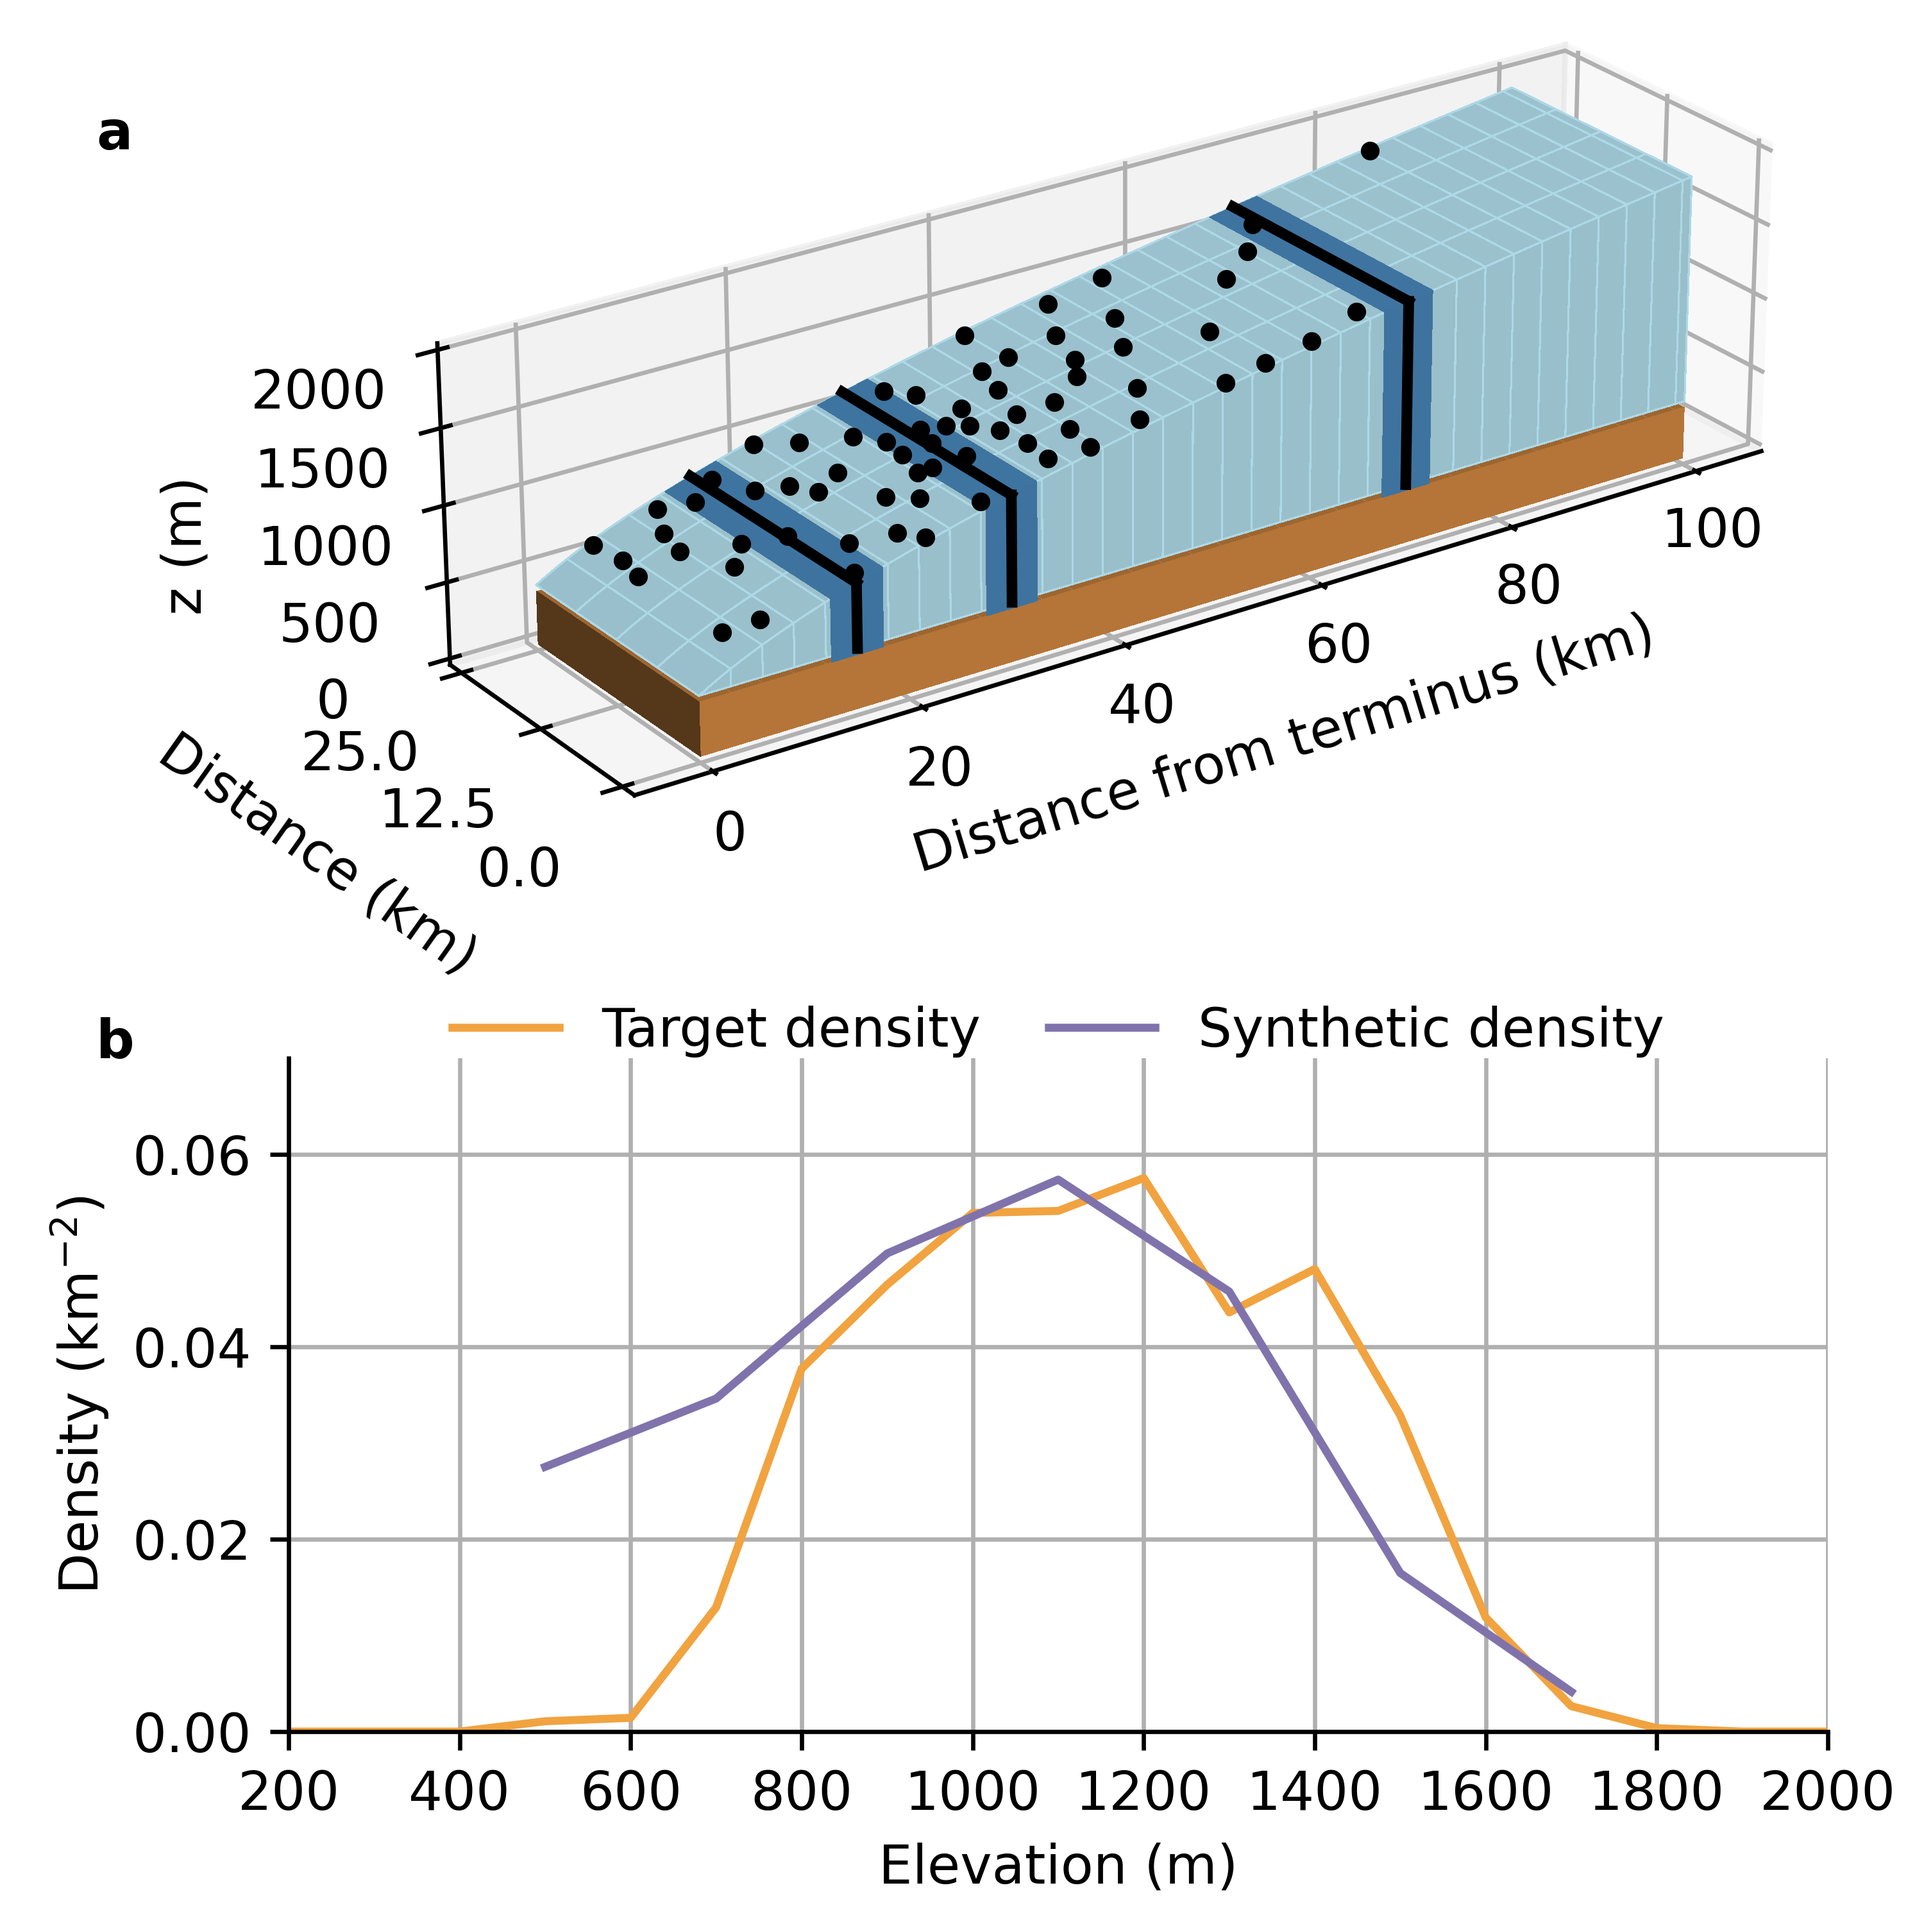
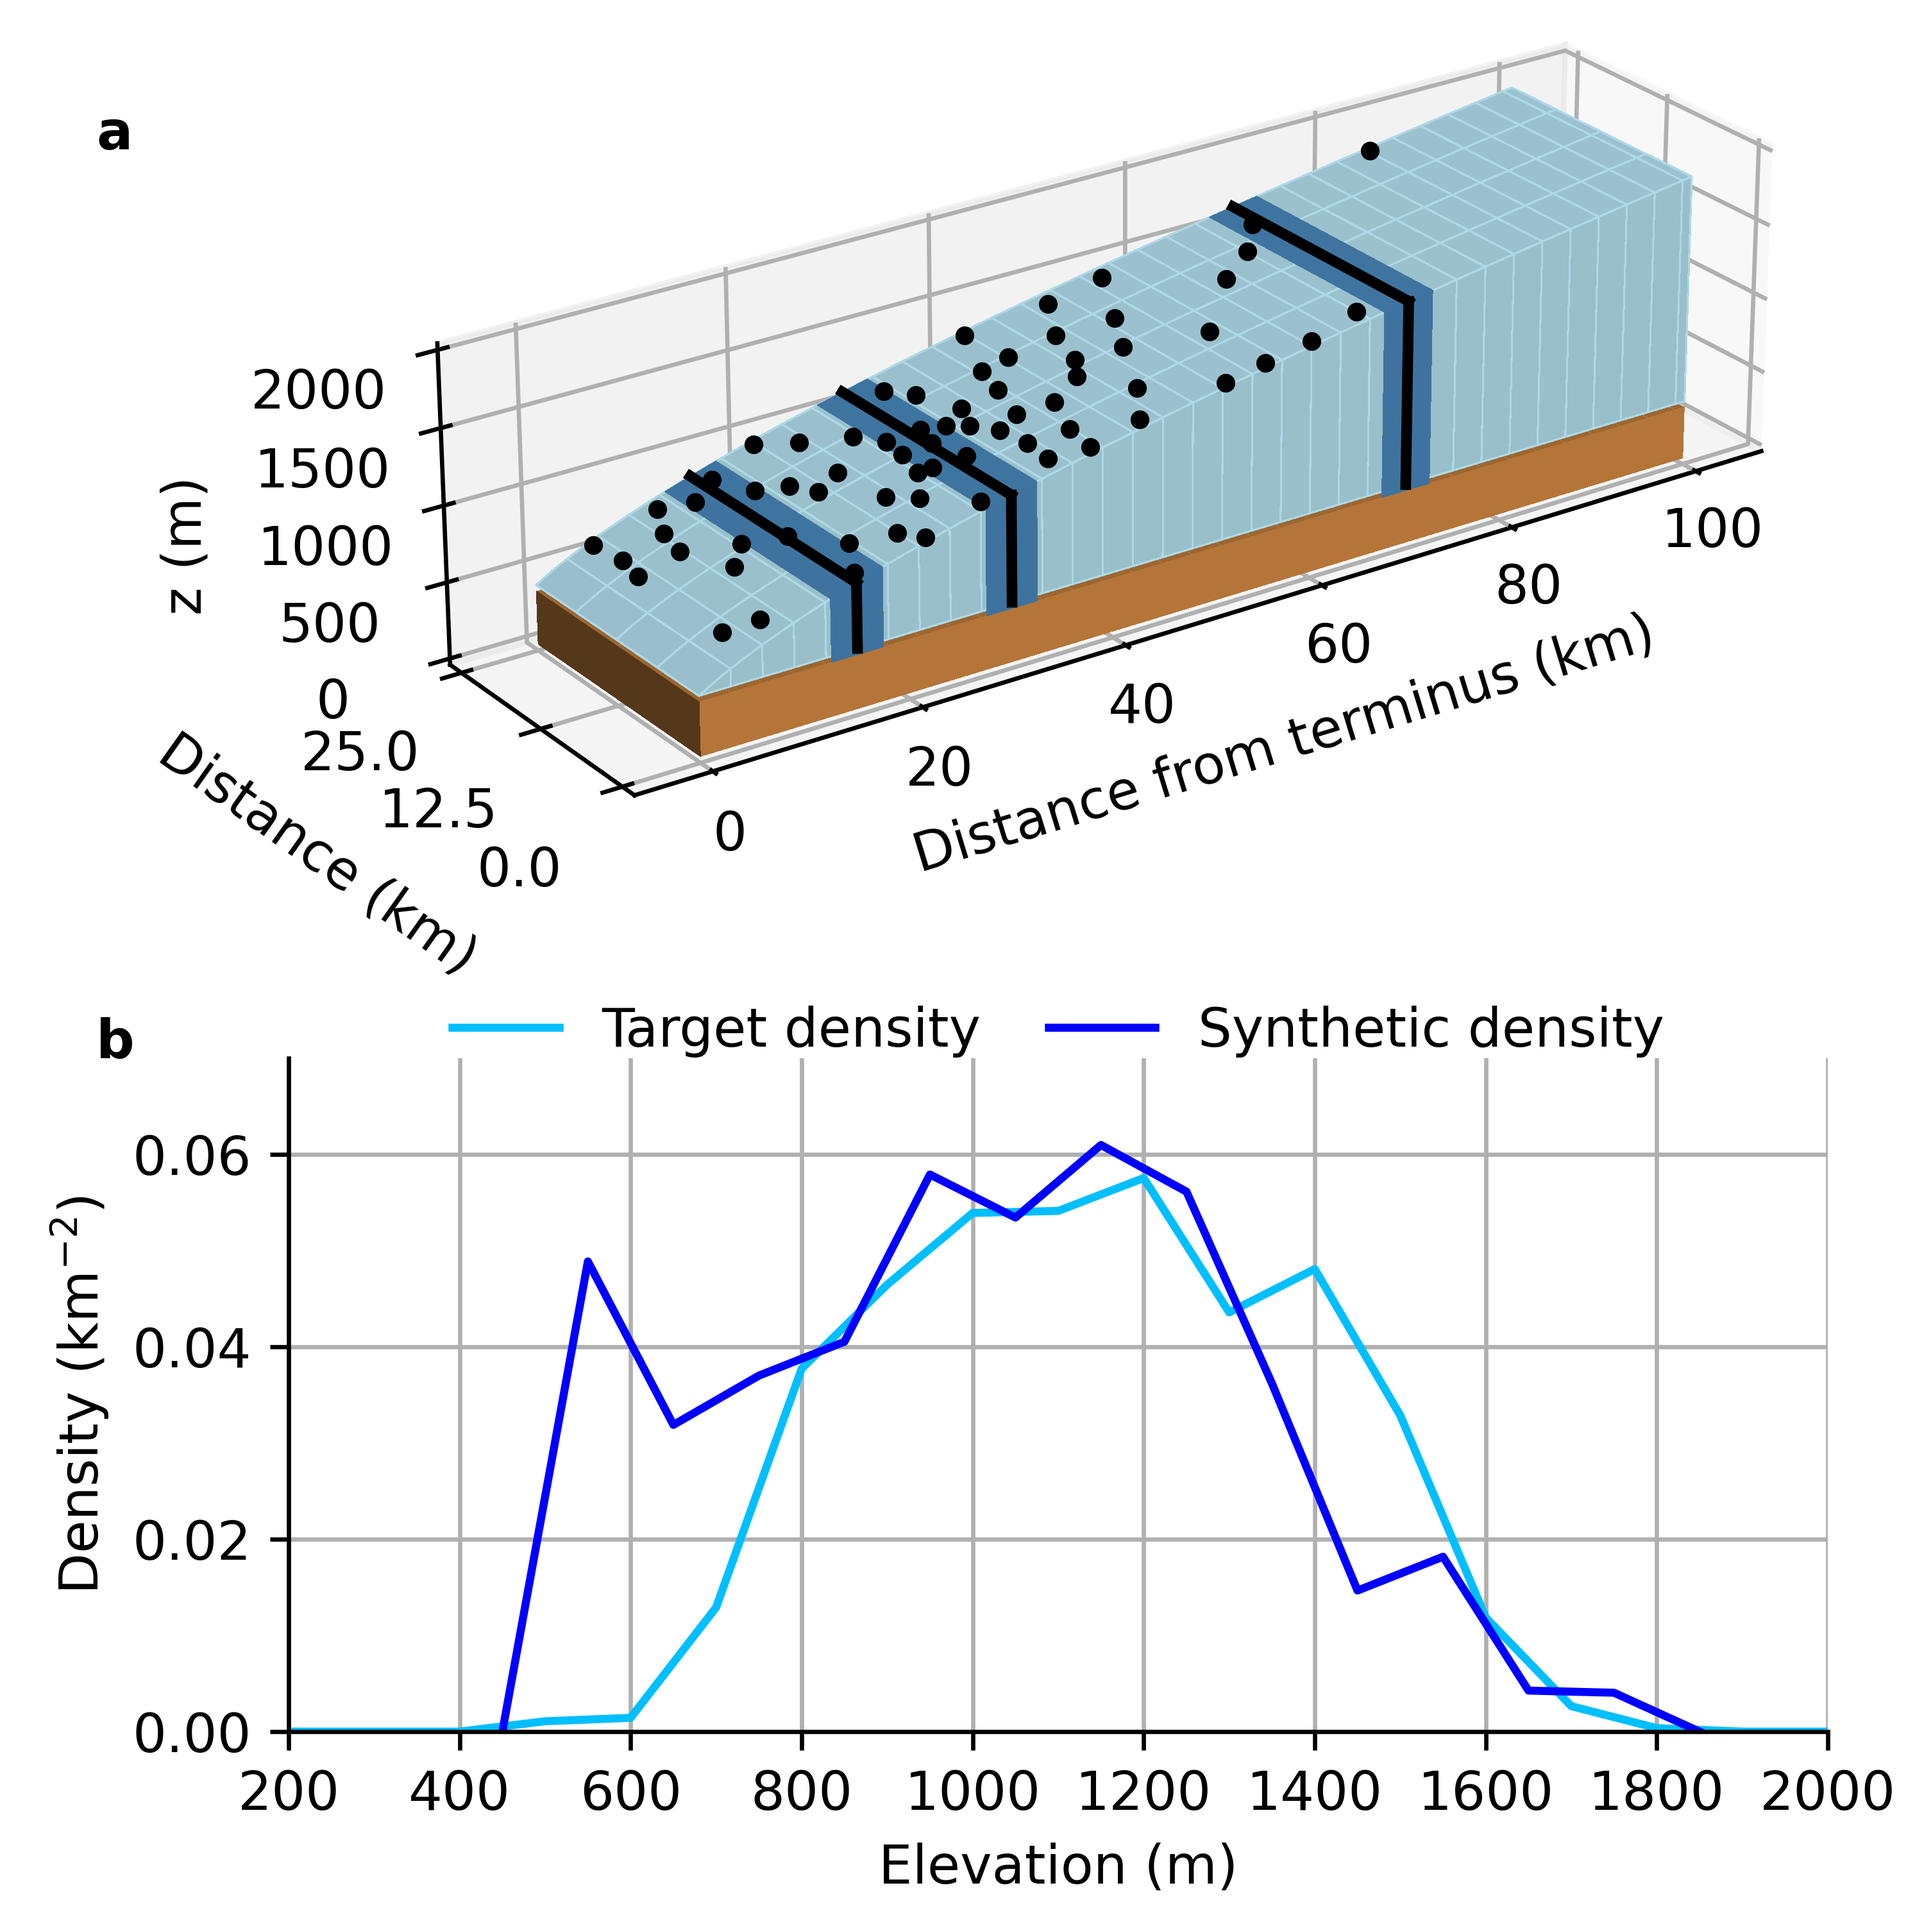
Update ice thickness script

diff --git a/analysis/plot_domains.py b/analysis/plot_domains.py
@@ -15,9 +15,9 @@ dmesh = nc.Dataset('../glads/data/mesh/mesh_04.nc')
 nodes = dmesh['tri/nodes'][:].data.T
 connect = dmesh['tri/connect'][:].data.T.astype(int) - 1
 
-out_trough = nc.Dataset('../glads/02_shmip_forcing_synth_topo/RUN/output_203_seasonal.nc')
+out_trough = nc.Dataset('../glads/02a_synth_forcing_trough/RUN/output_203_seasonal.nc')
 
-out_valley = nc.Dataset('../glads/02a_shmip_forcing_valley_topo/RUN/output_003_seasonal.nc')
+out_valley = nc.Dataset('../glads/02b_synth_forcing_valley/RUN/output_003_seasonal.nc')
 
 
 bed_flat = 350 + 0*nodes[:, 0]
@@ -62,14 +62,17 @@ for ax in axs.flat:
 axT = axs.T
 axT[0, 0].set_xticklabels([])
 axT[0, 1].set_xticklabels([])
+axT[0, 0].text(0.025, 0.9, 'a', transform=axT[0, 0].transAxes, fontweight='bold')
 
 axT[1, 0].set_xticklabels([])
 axT[1, 1].set_xticklabels([])
+axT[1, 0].text(0.025, 0.9, 'c', transform=axT[1, 0].transAxes, fontweight='bold')
 # axT[0, 2].set_xticklabels([])
 
 axT[0, 1].set_yticklabels([])
 axT[1, 1].set_yticklabels([])
 axT[2, 1].set_yticklabels([])
+axT[2, 0].text(0.025, 0.9, 'c', transform=axT[2, 0].transAxes, fontweight='bold')
 
 axT[0, 0].set_ylabel('y (km)')
 axT[1, 0].set_ylabel('y (km)')

diff --git a/analysis/plot_bed_ice_profiles.py b/analysis/plot_bed_ice_profiles.py
@@ -114,7 +114,7 @@ ax.set_position(Bbox.from_extents(-0.1, 0.415, 1.25, 1.15))
 # ax.text(0.05, 0.95, 'a', fontweight='bold')
 
 ## Compute moulin density
-z_bins = np.arange(400, 2000, 200)
+z_bins = np.arange(400, 2000, 100)
 n_moulin_bins = np.zeros(z_bins.shape)
 density_bins = np.zeros(len(z_bins)-1)
 tri_surf = surf_fun(dmesh['tri/nodes'][0].data.T)
@@ -132,8 +132,8 @@ yang_2016_density = np.loadtxt('../glads/data/yang2016_moulins/yang2016_density.
 z_bin_center = 0.5*(z_bins[:-1] + z_bins[1:])
 ax2 = fig.add_subplot()
 ax2.set_position(Bbox.from_bounds(0.15, 0.1, 0.8, 0.35))
-ax2.plot(yang_2016_density[:, 0], yang_2016_density[:, 1], label='Target density', color='#f1a340')
-ax2.plot(z_bin_center, density_bins, label='Synthetic density', color='#8073ac')
+ax2.plot(yang_2016_density[:, 0], yang_2016_density[:, 1], label='Target density', color='deepskyblue')
+ax2.plot(z_bin_center, density_bins, label='Synthetic density', color='b')
 ax2.spines['right'].set_visible(False)
 ax2.spines['top'].set_visible(False)
 ax2.set_xlim([200, 2000])
